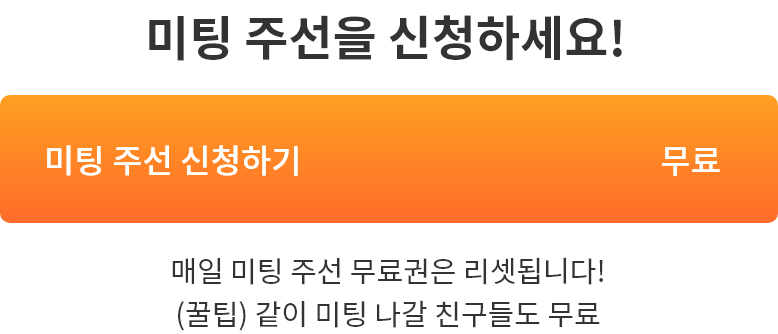
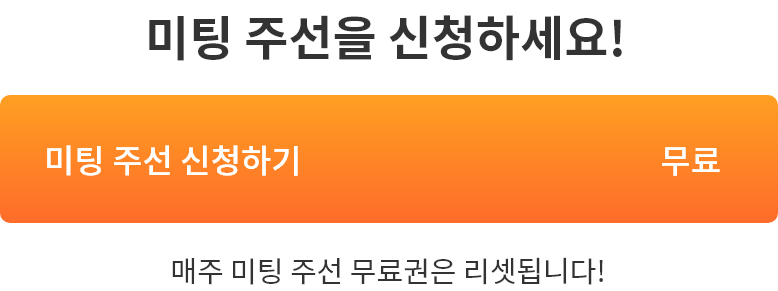
Update HomeGuideScreen resource

diff --git a/src/screens/HomeGuideScreen.js b/src/screens/HomeGuideScreen.js
@@ -65,7 +65,7 @@ const HomeGuideScreen = ({navigation}) => (
     <Image
       style={{
         width: (deviceWidth * 777) / 2.4511 / 375,
-        height: (deviceWidth * 334) / 2.4511 / 375,
+        height: (deviceWidth * 291) / 2.4511 / 375,
         resizeMode: 'cover',
       }}
       source={require('~/images/homeguidescreen-3.png')}
